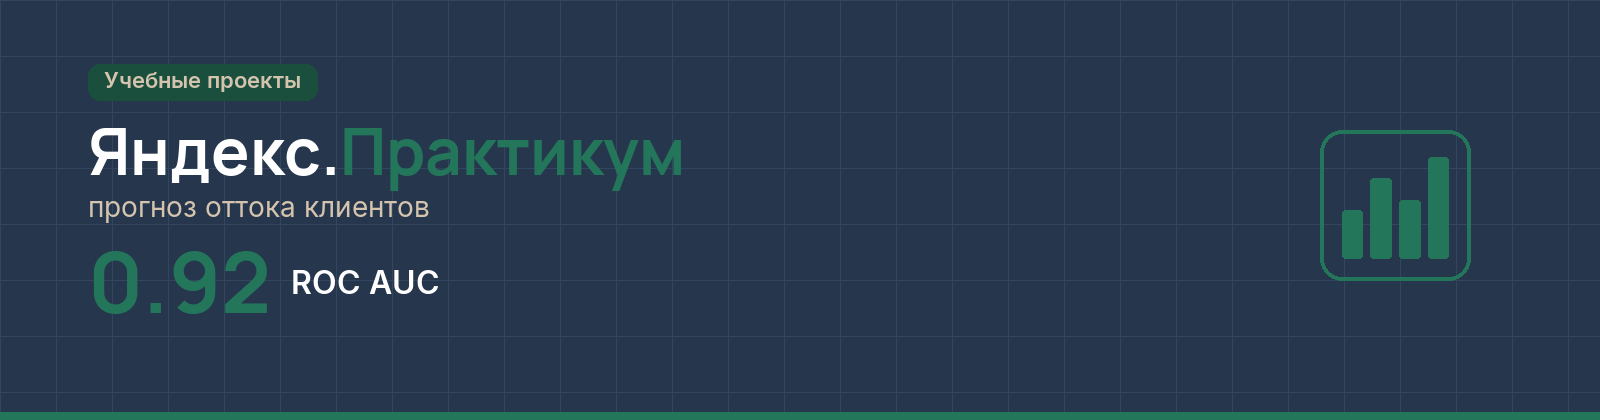
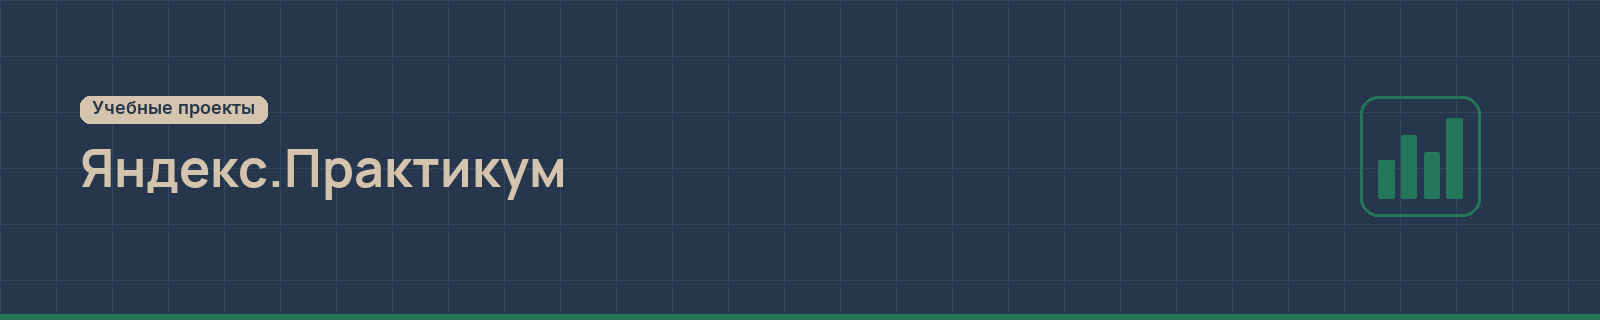
Match the course cover to the shorter project card.

diff --git a/README.md b/README.md
@@ -1,4 +1,4 @@
-<img src="assets/banner.png" alt="Яндекс.Практикум. Прогноз оттока клиентов, 0.92 ROC AUC." width="100%">
+<img src="assets/banner.png" alt="Учебные проекты. Яндекс.Практикум." width="100%">
 
 Учебные проекты Яндекс.Практикума. В таблице результат каждой работы.
 
